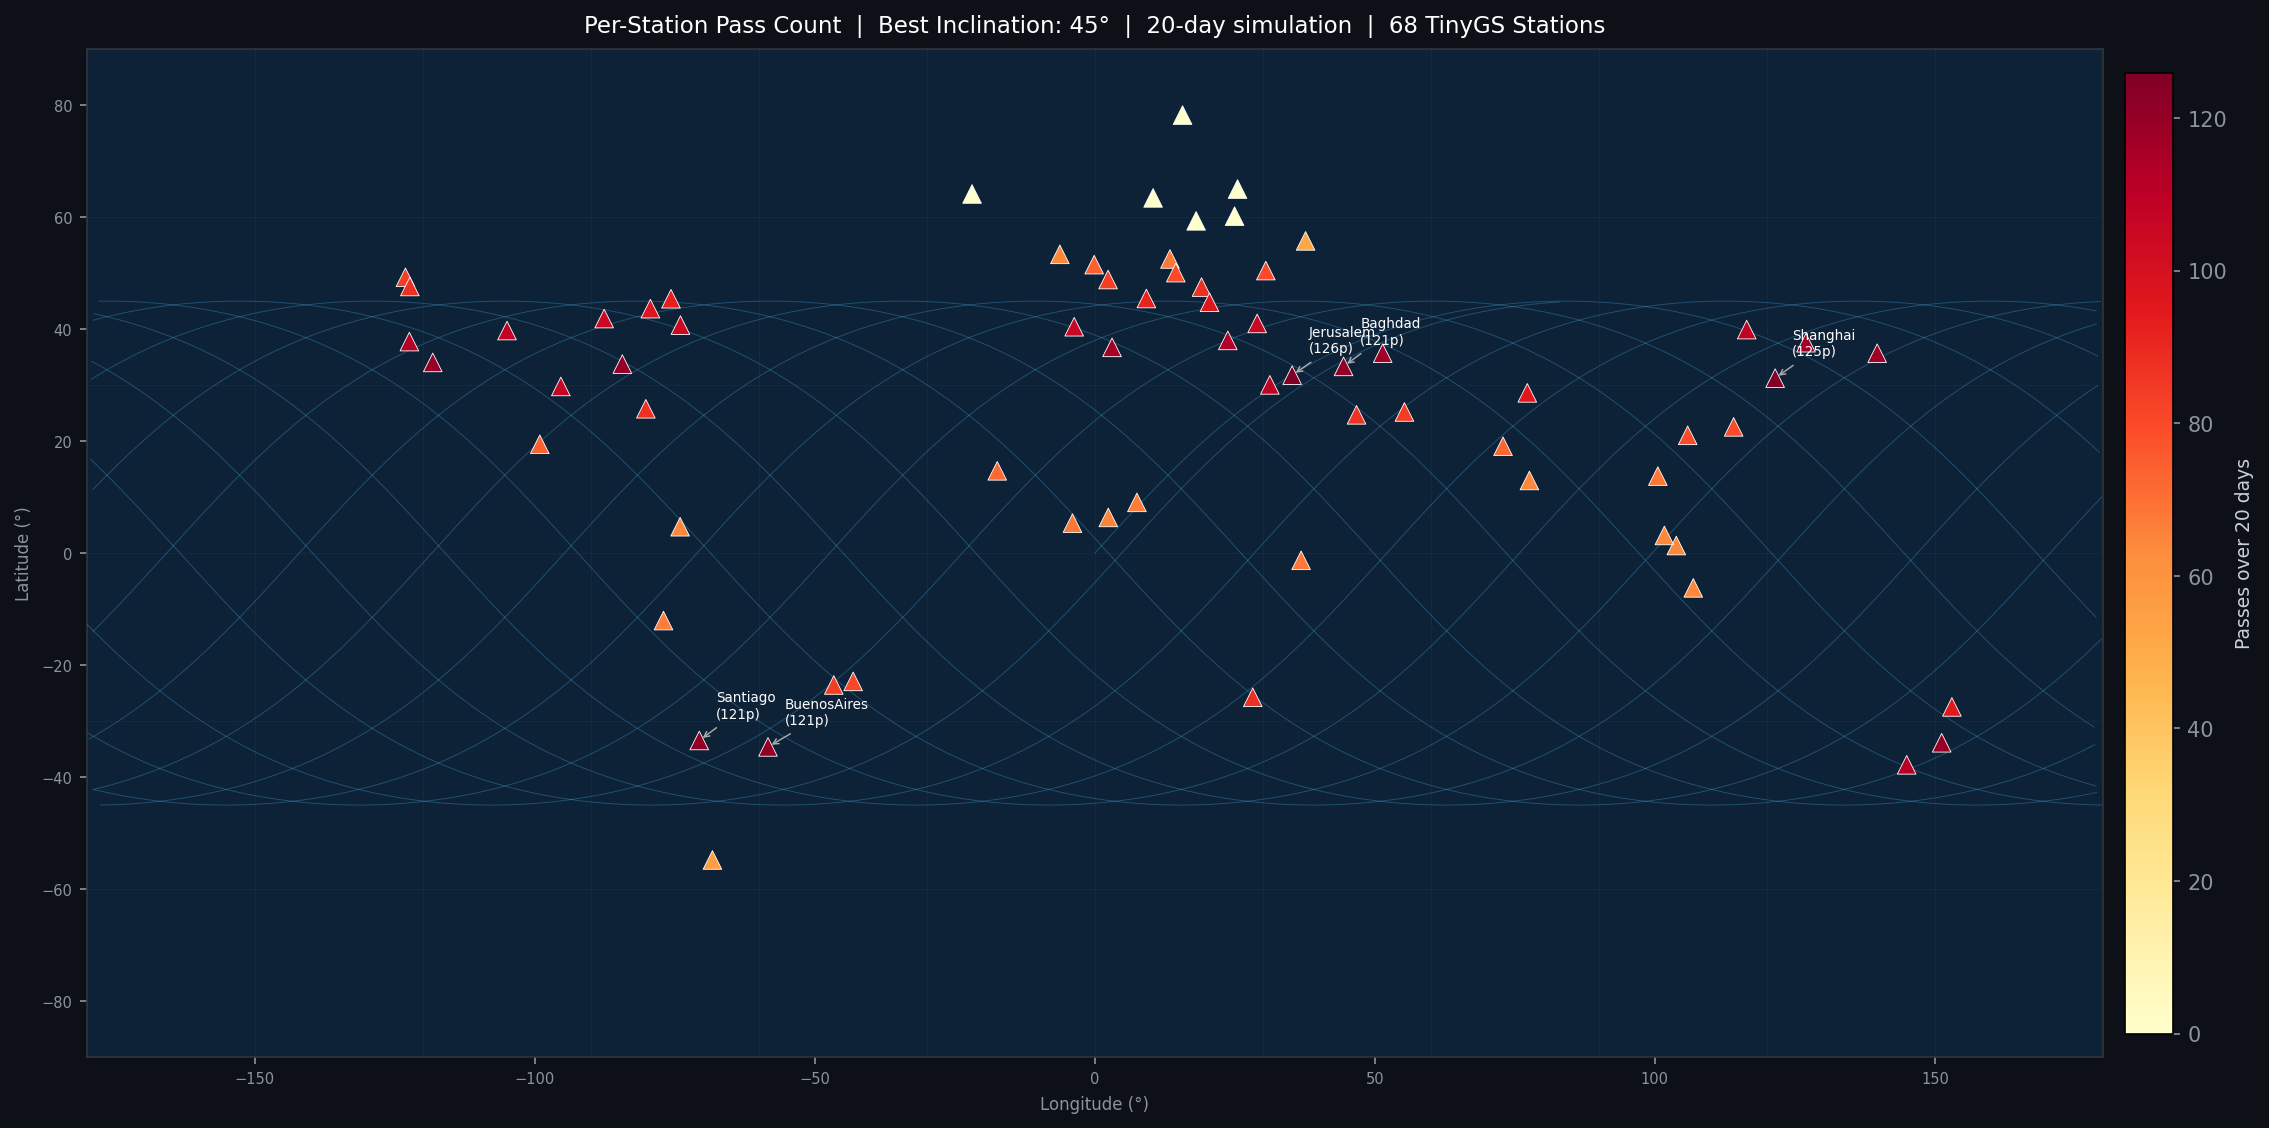
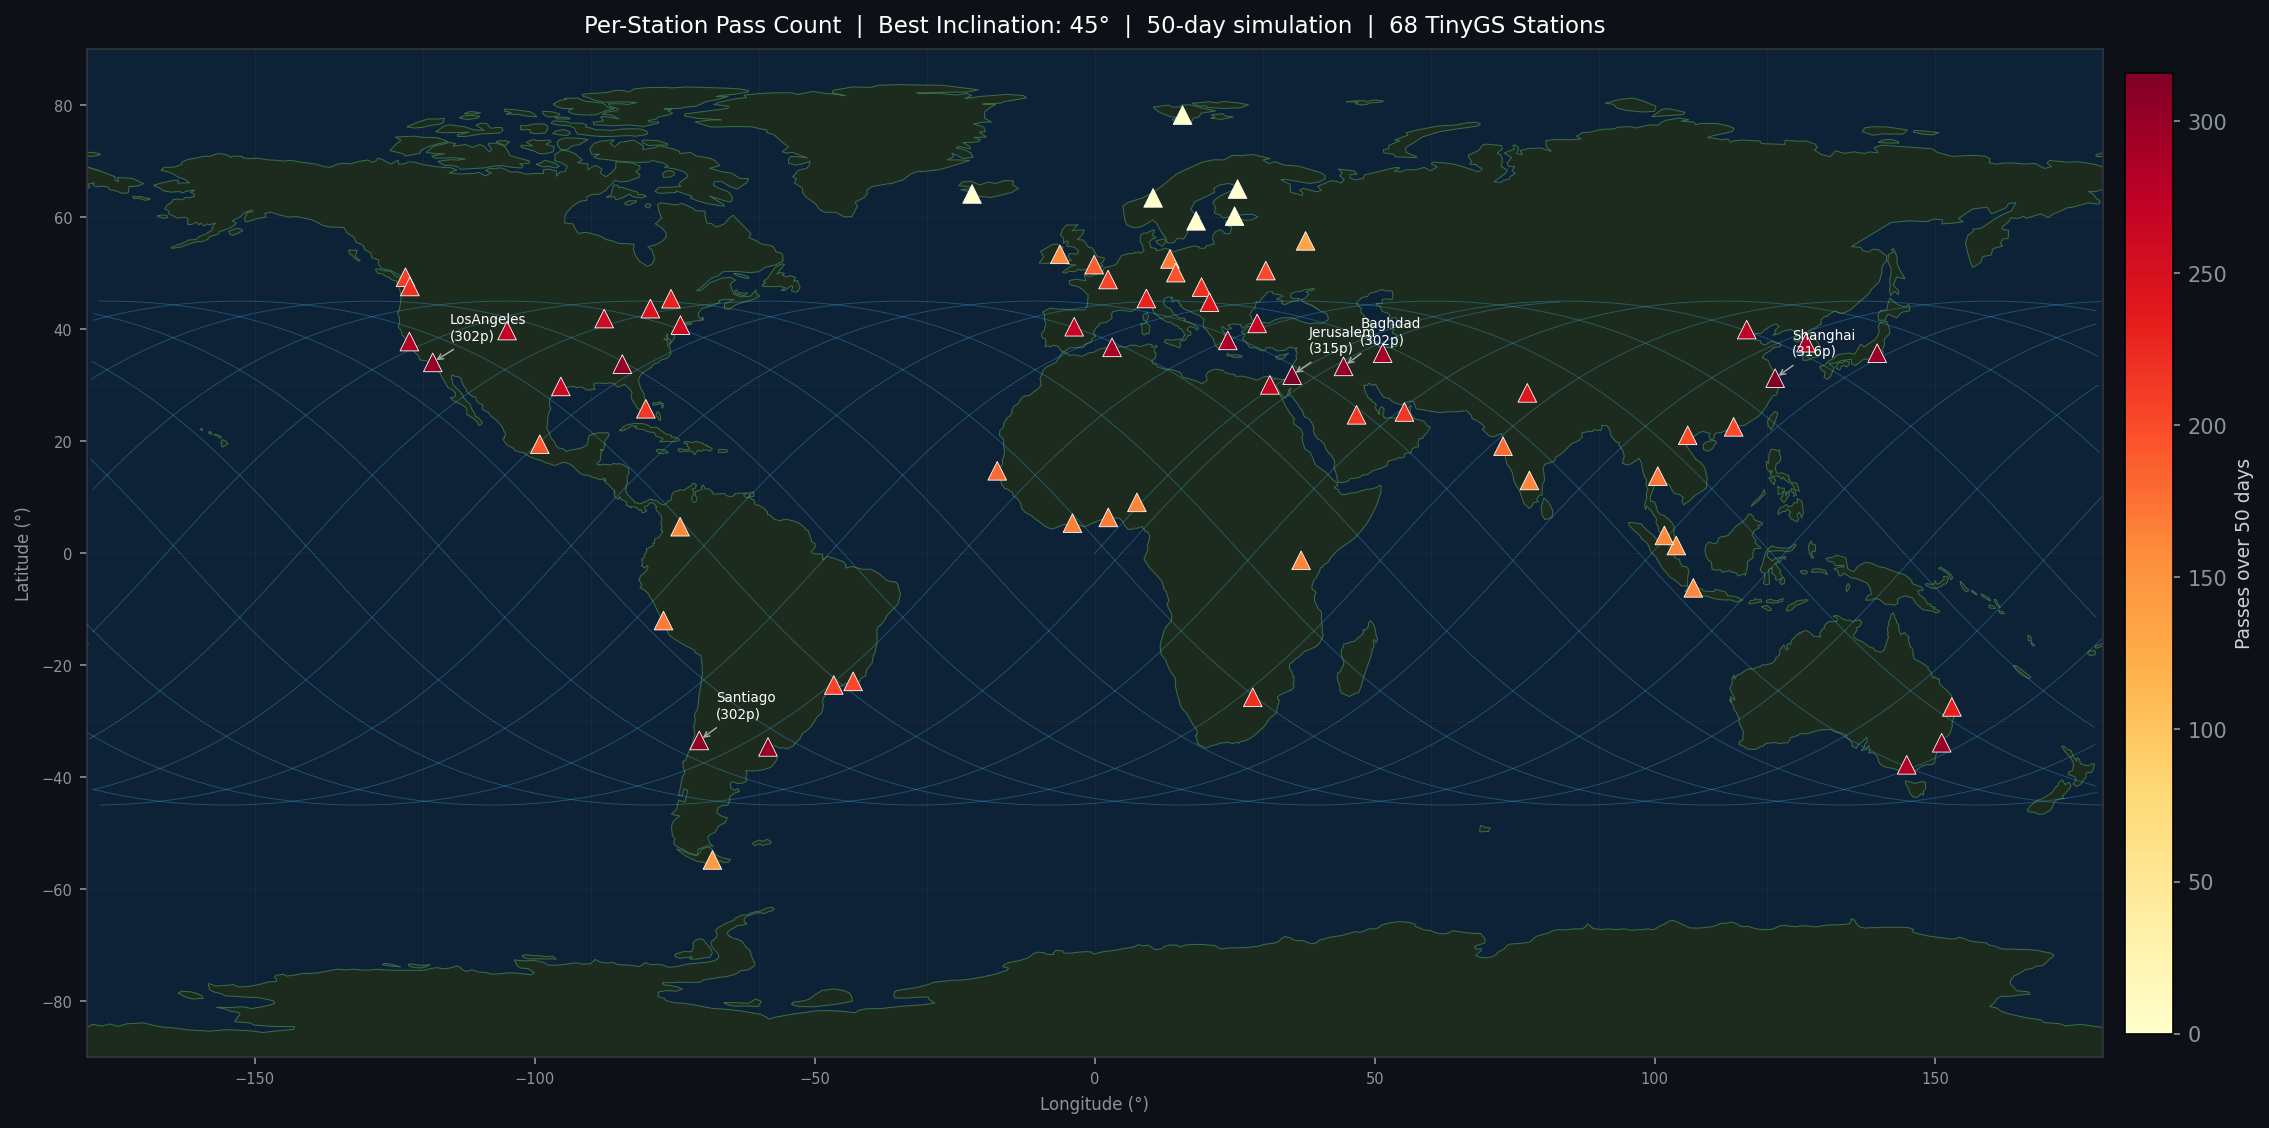
50 day simulation edit

diff --git a/Ground Station Coverage Optimized Simulation/solar_sail_coverage.py b/Ground Station Coverage Optimized Simulation/solar_sail_coverage.py
@@ -31,7 +31,7 @@ warnings.filterwarnings('ignore')
 # ─────────────────────────────────────────────
 ALTITUDE_KM       = 500.0
 MIN_ELEVATION_DEG = 10.0
-SIM_DAYS          = 20
+SIM_DAYS          = 50
 TIME_STEP_SEC     = 30
 INCLINATIONS      = [0, 28.5, 45, 53, 63, 70, 80, 90, 97.4, 110, 130]
 EARTH_RADIUS_KM   = 6371.0